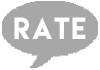
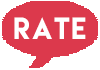
idk lol

diff --git a/contentscript.js b/contentscript.js
@@ -335,9 +335,9 @@ var realid = null;
 
 			var vote = document.createElement("input");
 			vote.type = "image";
-			vote.src="https://i.imgur.com/LVricm1.png";
-			vote.width="30";
-			vote.height="21";
+			vote.src = "http://i.imgur.com/pdAqymT.png";
+			vote.width="40";
+			vote.height="28";
 			vote.style="margin-left: 10px; top: 7px; margin-right: 20px; position: relative;";
 	
 			vote.profname = lastName;
